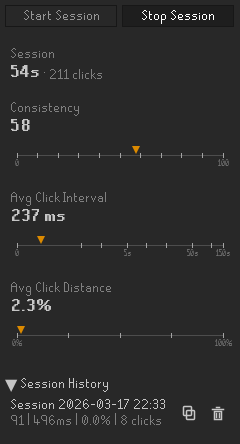
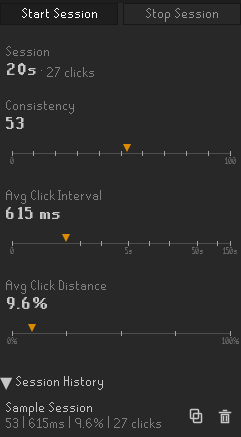
Pin buttons/stats, scroll only session history
Disable PluginPanel outer scroll wrap so Start/Stop and live stats stay
fixed. Move history list into a CENTER scroll pane that tracks viewport
width, eliminating horizontal scroll and keeping the buttons reachable
when history grows long.

diff --git a/src/main/java/com/afkstatstracker/AfkStatsTrackerPanel.java b/src/main/java/com/afkstatstracker/AfkStatsTrackerPanel.java
@@ -9,6 +9,7 @@ import java.awt.Font;
 import java.awt.Graphics;
 import java.awt.Graphics2D;
 import java.awt.GridLayout;
+import java.awt.Rectangle;
 import java.awt.RenderingHints;
 import java.awt.Toolkit;
 import java.awt.datatransfer.StringSelection;
@@ -30,6 +31,7 @@ import javax.swing.JPanel;
 import javax.swing.JScrollPane;
 import javax.swing.JTextField;
 import javax.swing.ImageIcon;
+import javax.swing.Scrollable;
 import javax.swing.SwingConstants;
 import javax.swing.Timer;
 import net.runelite.client.ui.ColorScheme;
@@ -55,10 +57,14 @@ public class AfkStatsTrackerPanel extends PluginPanel
 	private DistanceIndicator distanceIndicator;
 
 	private JPanel historyContainer;
+	private JScrollPane historyScrollPane;
 	private boolean historyExpanded = true;
 
 	public AfkStatsTrackerPanel(AfkStatsTrackerPlugin plugin, SessionHistoryManager sessionHistoryManager)
 	{
+		// wrap=false: we manage our own scroll so the buttons/stats stay pinned and only history data scrolls
+		super(false);
+
 		this.plugin = plugin;
 		this.sessionHistoryManager = sessionHistoryManager;
 
@@ -67,9 +73,9 @@ public class AfkStatsTrackerPanel extends PluginPanel
 		timer = new Timer(1000, e -> updateStats());
 		timer.setRepeats(true);
 
-		// Main content panel
-		JPanel contentPanel = new JPanel();
-		contentPanel.setLayout(new BoxLayout(contentPanel, BoxLayout.Y_AXIS));
+		// Pinned top panel (buttons + stats + history header) — never scrolls
+		JPanel topPanel = new JPanel();
+		topPanel.setLayout(new BoxLayout(topPanel, BoxLayout.Y_AXIS));
 
 		// Button panel
 		JPanel buttonPanel = new JPanel(new GridLayout(1, 2, 5, 0));
@@ -128,14 +134,22 @@ public class AfkStatsTrackerPanel extends PluginPanel
 		statsPanel.add(distanceIndicator);
 		statsPanel.setMaximumSize(new Dimension(Integer.MAX_VALUE, statsPanel.getPreferredSize().height));
 
-		// History section
-		JPanel historySection = createHistorySection();
+		// History header (pinned) + scrollable data area
+		JPanel historyHeader = createHistoryHeader();
 
-		contentPanel.add(buttonPanel);
-		contentPanel.add(statsPanel);
-		contentPanel.add(historySection);
+		historyContainer = new ScrollablePanel();
 
-		add(contentPanel, BorderLayout.NORTH);
+		historyScrollPane = new JScrollPane(historyContainer);
+		historyScrollPane.setBorder(BorderFactory.createEmptyBorder(5, 0, 0, 0));
+		historyScrollPane.setHorizontalScrollBarPolicy(JScrollPane.HORIZONTAL_SCROLLBAR_NEVER);
+		refreshHistoryPanel();
+
+		topPanel.add(buttonPanel);
+		topPanel.add(statsPanel);
+		topPanel.add(historyHeader);
+
+		add(topPanel, BorderLayout.NORTH);
+		add(historyScrollPane, BorderLayout.CENTER);
 	}
 
 	private JPanel createStatCard(String title, String tooltip)
@@ -192,13 +206,11 @@ public class AfkStatsTrackerPanel extends PluginPanel
 		return card;
 	}
 
-	private JPanel createHistorySection()
+	private JPanel createHistoryHeader()
 	{
-		JPanel section = new JPanel(new BorderLayout());
-		section.setBorder(BorderFactory.createEmptyBorder(10, 0, 0, 0));
-
-		// Header with toggle
 		JPanel header = new JPanel(new BorderLayout());
+		header.setBorder(BorderFactory.createEmptyBorder(10, 0, 0, 0));
+
 		JLabel headerLabel = new JLabel("▼ Session History");
 		headerLabel.setCursor(Cursor.getPredefinedCursor(Cursor.HAND_CURSOR));
 		headerLabel.addMouseListener(new MouseAdapter()
@@ -208,25 +220,12 @@ public class AfkStatsTrackerPanel extends PluginPanel
 			{
 				historyExpanded = !historyExpanded;
 				headerLabel.setText((historyExpanded ? "▼" : "▶") + " Session History");
-				historyContainer.setVisible(historyExpanded);
+				historyScrollPane.setVisible(historyExpanded);
 				revalidate();
 			}
 		});
 		header.add(headerLabel, BorderLayout.WEST);
-
-		// History container
-		historyContainer = new JPanel();
-		historyContainer.setLayout(new BoxLayout(historyContainer, BoxLayout.Y_AXIS));
-
-		JScrollPane scrollPane = new JScrollPane(historyContainer);
-		scrollPane.setPreferredSize(new Dimension(0, 300));
-		scrollPane.setBorder(null);
-
-		section.add(header, BorderLayout.NORTH);
-		section.add(scrollPane, BorderLayout.CENTER);
-
-		refreshHistoryPanel();
-		return section;
+		return header;
 	}
 
 	public void refreshHistoryPanel()
@@ -461,6 +460,45 @@ public class AfkStatsTrackerPanel extends PluginPanel
 		if (timer != null)
 		{
 			timer.stop();
+		}
+	}
+
+	// Vertical list whose width follows the viewport, so rows shrink/truncate instead of forcing a horizontal scrollbar
+	private static class ScrollablePanel extends JPanel implements Scrollable
+	{
+		ScrollablePanel()
+		{
+			setLayout(new BoxLayout(this, BoxLayout.Y_AXIS));
+		}
+
+		@Override
+		public Dimension getPreferredScrollableViewportSize()
+		{
+			return getPreferredSize();
+		}
+
+		@Override
+		public int getScrollableUnitIncrement(Rectangle visibleRect, int orientation, int direction)
+		{
+			return 16;
+		}
+
+		@Override
+		public int getScrollableBlockIncrement(Rectangle visibleRect, int orientation, int direction)
+		{
+			return visibleRect.height;
+		}
+
+		@Override
+		public boolean getScrollableTracksViewportWidth()
+		{
+			return true;
+		}
+
+		@Override
+		public boolean getScrollableTracksViewportHeight()
+		{
+			return false;
 		}
 	}
 

diff --git a/README.md b/README.md
@@ -12,7 +12,7 @@ Tracked Stats:
 
 Purpose: To track afk metrics to compare between activies and methods. Similar to tracking DPS and Kills/hr.
 
-Session history shows your most recent sessions first. Click a session name to rename it. Sessions can be copied to clipboard or deleted (with confirmation).
+Session history shows your most recent sessions first. Click a session name to rename it. Sessions can be copied to clipboard or deleted (with confirmation). The Start/Stop buttons and live stats stay pinned in place; only the history list scrolls when it grows long.
 
 ## Wiki Guide
 